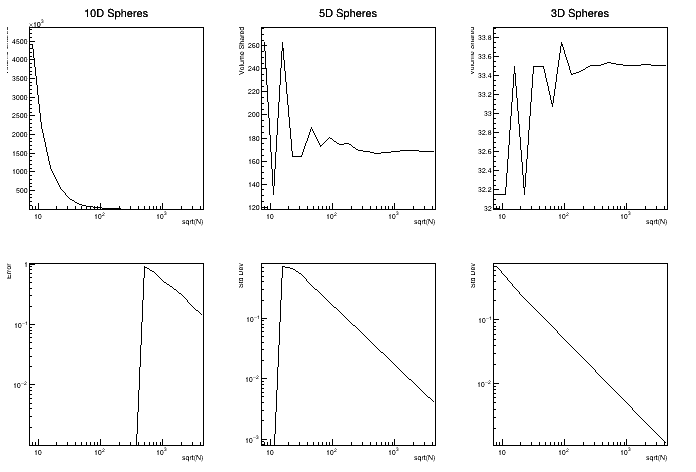
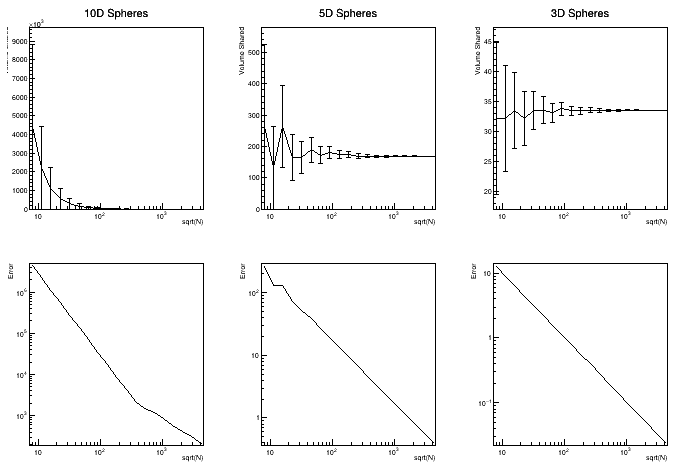
convergence plot now has correct error in volumes

diff --git a/sphere_5D.cpp b/sphere_5D.cpp
@@ -1,5 +1,7 @@
 #include "sphere_5D.h"
 
+using namespace ROOT::Math;
+
 void scale_vec(int dim, std::vector<double>& v, double scale) {
     // scale a positive vector to have components between -scale/2 and scale/2
     for (int i = 0; i<dim; ++i) {
@@ -27,7 +29,7 @@ bool check_inside(int dim, std::vector<double>& v, double r) {
 
 void add_vec(int dim, std::vector<double>& v1, std::vector<double>& v2) {
     // add components of vec2 to vec1 in place
-    for (int j=0; j<dim; ++j){
+    for (int j=0; j<dim; ++j) {
         v1[j] = v1[j] + v2[j];
     }
 }
@@ -58,19 +60,76 @@ int uni_loop(int dim, long int n_axis, int axis, double r, double incr, std::vec
 
 }
 
-std::vector<double> uniform_mc(int dim, int N, int r, long int n_axis) {
+std::vector<double> uniform_mc(int dim, long int N, int r, long int n_axis) {
     // do mc integration of a dim dimensional sphere with radius r with N total points, n_axis points along each axis
     std::vector<double> results(2);
     std::vector<double> uniform_pos(dim,-r); // position vector for uniform distribution method, start at (-r,-r,-r,-r,-r)
     double box_length = 2.*r; // length of box to surround the 5d sphere
-    std::cout<<"box length: "<<box_length<<std::endl;
     double axis_incr = box_length/(n_axis-1); // amount to increment along each axis to hit N points inside box
     std::cout<<"axis incr: "<<axis_incr<<std::endl;
     double box_volume = std::pow(box_length, 1.*dim);
+
     int N_inside= uni_loop(dim, n_axis, 0, r, axis_incr, uniform_pos);
-    double volume = ((1.*N_inside)/N) * box_volume;
+
+    double p = (1.*N_inside)/N;
+    double volume = p * box_volume;
+    std_dev = std::sqrt(1.*(N_inside - N * p * p)/(N-1));
     results[0] = volume;
-    results[1] = 0.0;
+    results[1] = std_dev;
+    return results;
+}
+
+std::vector<double> quasi_mc(int dim, long int N, int r) {
+    // do mc integration of a dim dimensional sphere with radius r with N total points, n_axis points along each axis
+    std::vector<double> results(2);
+    std::vector<double> quasi_pos(dim,0.0); // position vector for quasi random distribution method
+    double box_length = 2.*r; // length of box to surround the 5d sphere
+    double box_volume = std::pow(box_length, 1.*dim); // volume of 5d box
+    long int N_inside = 0; // count of points that land inside sphere
+
+    QuasiRandomSobol sobol_rng(dim); // sobol quasi random number generator in dim dimensions
+
+    for (int i=0; i<N; i++) {
+        sobol_rng.RndmArray(1, quasi_pos.data()); // generate a random vector
+        scale_vec(dim, quasi_pos, box_length); // scale the vector by the box length
+        if (check_inside(dim, quasi_pos, r)) {
+            // std::cout<<"Inside"<<std::endl;
+            N_inside++;
+        }
+    }
+
+    double p = (1.*N_inside)/N;
+    double volume = p * box_volume;
+    std_dev = std::sqrt(1.*(N_inside - N * p * p)/(N-1));
+    results[0] = volume;
+    results[1] = std_dev;
+    return results;
+}
+
+std::vector<double> pseudo_mc(int dim, long int N, int r) {
+    // do mc integration of a dim dimensional sphere with radius r with N total points, n_axis points along each axis
+    std::vector<double> results(2);
+    std::vector<double> pseudo_pos(dim,0.0); // position vector for pseudo random distribution method
+    double box_length = 2.*r; // length of box to surround the 5d sphere
+    double box_volume = std::pow(box_length, 1.*dim); // volume of 5d box
+    long int N_inside = 0; // count of points that land inside sphere
+    double std_dev = 0.0; // standard deviation
+
+    TRandom3 *tr3 = new TRandom3(0);; // trandom pseudo rng
+
+    for (int i=0; i<N; i++) {
+        tr3->RndmArray(dim,pseudo_pos.data()); // generate a random vector
+        scale_vec(dim, pseudo_pos, box_length); // scale the vector by the box length
+        if (check_inside(dim, pseudo_pos, r)) {
+            // std::cout<<"Inside"<<std::endl;
+            N_inside++;
+        }
+    }
+    double p = (1.*N_inside)/N;
+    double volume = p * box_volume;
+    std_dev = std::sqrt(1.*(N_inside - N * p * p)/(N-1));
+    results[0] = volume;
+    results[1] = std_dev;
     return results;
 }
 
@@ -93,16 +152,21 @@ int main(int argc, char* argv[]) {
     int n_trials = upper_pow-lower_pow+1; // total number of trials
     std::vector<double> n_points_sqrt(n_trials); // sqrt of all different numbers of points generated in each trial
     std::vector<double> n_points_sqrt_uni(n_trials); // sqrt of all different numbers of points generated in each trial for uniform points
+    std::vector<double> results(2); // vector to temporarily hold results
 
     // uniform distribution method
-    
     long int N_uniform; // total number of uniform points in each trial
     std::vector<double> volume_uni(n_trials); // volumes for uniform distribution
     std::vector<double> std_dev_uni(n_trials); // std dev for uniform distribution
-    std::vector<double> results_uni(2); // vector to temporarily hold results for uniform mc
 
 
     // sobel quasirandom method
+    std::vector<double> volume_quasi(n_trials); // volumes for quasi distribution
+    std::vector<double> std_dev_quasi(n_trials); // std dev for quasi distribution
+
+    // trandom pseudorandom method
+    std::vector<double> volume_pseudo(n_trials); // volumes for pseudo distribution
+    std::vector<double> std_dev_pseudo(n_trials); // std dev for pseudo distribution
 
     for (int i=lower_pow; i<=upper_pow; i++) {
         N = std::pow(10,i);
@@ -117,22 +181,64 @@ int main(int argc, char* argv[]) {
         
         // uniform distr
         std::cout<<"num per axis: "<<n_axis<<std::endl;
-        results_uni = uniform_mc(d, N_uniform, r, n_axis);
+        results = uniform_mc(d, N_uniform, r, n_axis);
+        volume_uni[i-lower_pow] = results[0];
+        std_dev_uni[i-lower_pow] = results[1];
+        std::cout<<"Uniform Volume: "<<results[0]<<std::endl;
 
-        std::cout<<"Uniform Volume: "<<results_uni[0]<<"\n"<<std::endl;
+        // quasi random distr
+        results = quasi_mc(d, N, r);
+        volume_quasi[i-lower_pow] = results[0];
+        std_dev_quasi[i-lower_pow] = results[1];
+        std::cout<<"Quasi Volume: "<<results[0]<<std::endl;
+
+        // pseudo random distr
+        results = pseudo_mc(d, N, r);
+        volume_pseudo[i-lower_pow] = results[0];
+        std_dev_pseudo[i-lower_pow] = results[1];
+        std::cout<<"Pseudo Volume: "<<results[0]<<"\n"<<std::endl;
+
     }
 
-    // // A multi panel plot
-    // auto canvas = new TCanvas("canvas","Canvas");
-    // canvas->Divide(3,2);  // divide in to 2x3 panels, plot volume on top of error
+    // A multi panel plot
+    auto canvas = new TCanvas("canvas","Canvas");
+    canvas->Divide(2,1);  // divide in to 1x2 panels, plot volume on top of error
     
-    // // 10D plots
-    // canvas->cd(1);
-    // auto graph_10D = new TGraph(19,n_points_sqrt.data(),volume_10D.data());
-    // graph_10D->SetTitle("10D Spheres;sqrt(N);Volume Shared");
-    // graph_10D->Draw();
-    // // canvas->cd(1)->SetLogy();
-    // canvas->cd(1)->SetLogx();
+    // volume plots
+    canvas->cd(1);
+    auto frame = gPad->DrawFrame(0.,0.,n_points_sqrt.back(),6.5);
+    frame->GetXaxis()->SetTitle("sqrt(N)");
+    frame->GetYaxis()->SetTitle("Volume");
+    auto graph_uni_vol = new TGraph(n_trials,n_points_sqrt_uni.data(),volume_uni.data());
+    graph_uni_vol->SetTitle("Volume;sqrt(N);Volume");
+    graph_uni_vol->SetMarkerStyle(7);
+    graph_uni_vol->SetMarkerColor(2);
+    
+
+    auto graph_quasi_vol = new TGraph(n_trials,n_points_sqrt.data(),volume_quasi.data());
+    // graph_quasi_vol->SetTitle("Volume;sqrt(N);Volume");
+    graph_quasi_vol->SetMarkerStyle(7);
+    graph_quasi_vol->SetMarkerColor(4);
+    
+
+    auto graph_pseudo_vol = new TGraph(n_trials,n_points_sqrt.data(),volume_pseudo.data());
+    // graph_quasi_vol->SetTitle("Volume;sqrt(N);Volume");
+    graph_pseudo_vol->SetMarkerStyle(7);
+    graph_pseudo_vol->SetMarkerColor(3);
+
+    graph_uni_vol->Draw("cp");
+    graph_quasi_vol->Draw("cp");
+    graph_pseudo_vol->Draw("cp");
+
+    auto legend = new TLegend(0.2,0.4,0.4,0.6);
+    legend->AddEntry(graph_uni_vol,"Uniform");
+    legend->AddEntry(graph_quasi_vol,"Quasi");
+    legend->AddEntry(graph_pseudo_vol,"Pseudo");
+    // legend->SetHeader("Legend");
+    legend->Draw();
+
+    // canvas->cd(1)->SetLogy();
+    canvas->cd(1)->SetLogx();
 
     // canvas->cd(4);
     // auto graph_10D_err = new TGraph(19,n_points_sqrt.data(),vol_err_10D.data());
@@ -170,6 +276,6 @@ int main(int argc, char* argv[]) {
     // canvas->cd(6)->SetLogy();
     // canvas->cd(6)->SetLogx();
 
-    // canvas->SaveAs("methods.png");
+    canvas->SaveAs("methods.png");
     return 0; // Exit successfully
 }

diff --git a/ndcrescent_plotting.cpp b/ndcrescent_plotting.cpp
@@ -40,6 +40,7 @@ int main(int argc, char* argv[]) {
         results_10D = monte_volume(10, N, r1, r2, a);
         volume_10D[i-6] = results_10D[1];
         vol_err_10D[i-6] = results_10D[2];
+        // std::cout<<"10D volume: "<<results_10D[1]<<"\n"<<std::endl;
 
         // 5D
         results_5D = monte_volume(5, N, r1, r2, a);
@@ -52,13 +53,15 @@ int main(int argc, char* argv[]) {
         vol_err_3D[i-6] = results_3D[2];
     }
 
+    std::vector<double> zeros(19,0.0);
+
     // A multi panel plot
     auto canvas = new TCanvas("canvas","Canvas");
     canvas->Divide(3,2);  // divide in to 2x3 panels, plot volume on top of error
     
     // 10D plots
     canvas->cd(1);
-    auto graph_10D = new TGraph(19,n_points_sqrt.data(),volume_10D.data());
+    auto graph_10D = new TGraphErrors(19,n_points_sqrt.data(),volume_10D.data(),zeros.data(),vol_err_10D.data());
     graph_10D->SetTitle("10D Spheres;sqrt(N);Volume Shared");
     graph_10D->Draw();
     // canvas->cd(1)->SetLogy();
@@ -73,7 +76,7 @@ int main(int argc, char* argv[]) {
 
     // 5D plots
     canvas->cd(2);
-    auto graph_5D = new TGraph(19,n_points_sqrt.data(),volume_5D.data());
+    auto graph_5D = new TGraphErrors(19,n_points_sqrt.data(),volume_5D.data(),zeros.data(),vol_err_5D.data());
     graph_5D->SetTitle("5D Spheres;sqrt(N);Volume Shared");
     graph_5D->Draw();
     // canvas->cd(2)->SetLogy();
@@ -81,21 +84,21 @@ int main(int argc, char* argv[]) {
 
     canvas->cd(5);
     auto graph_5D_err = new TGraph(19,n_points_sqrt.data(),vol_err_5D.data());
-    graph_5D_err->SetTitle(";sqrt(N);Std Dev");
+    graph_5D_err->SetTitle(";sqrt(N);Error");
     graph_5D_err->Draw();
     canvas->cd(5)->SetLogy();
     canvas->cd(5)->SetLogx();
 
     // 3D plots
     canvas->cd(3);
-    auto graph_3D = new TGraph(19,n_points_sqrt.data(),volume_3D.data());
+    auto graph_3D = new TGraphErrors(19,n_points_sqrt.data(),volume_3D.data(),zeros.data(),vol_err_3D.data());
     graph_3D->SetTitle("3D Spheres;sqrt(N);Volume Shared");
     graph_3D->Draw();
     canvas->cd(3)->SetLogx();
 
     canvas->cd(6);
     auto graph_3D_err = new TGraph(19,n_points_sqrt.data(),vol_err_3D.data());
-    graph_3D_err->SetTitle(";sqrt(N);Std Dev");
+    graph_3D_err->SetTitle(";sqrt(N);Error");
     graph_3D_err->Draw();
     canvas->cd(6)->SetLogy();
     canvas->cd(6)->SetLogx();

diff --git a/ndcrescent.cpp b/ndcrescent.cpp
@@ -58,8 +58,6 @@ std::vector<double> monte_volume(int d, int N, double r1, double r2, double a) {
     int num_inside = 0; // count how many random points land inside both spheres
     double stdev; // standard deviation of the points inside spheres
 
-    double sum_magsq = 0.0; // sum of the magnitude squared of all randomly generated vectors inside both spheres
-    std::vector<double> sum_pos(d, 0.0); // vector which is the sum of all random vector components inside both spheres
     // print_vec(d, sum_pos);
 
     double rand_mag;
@@ -78,31 +76,21 @@ std::vector<double> monte_volume(int d, int N, double r1, double r2, double a) {
             // std::cout<<"Inside"<<std::endl;
             num_inside++;
 
-                    // add magnitude squared of this vector to d_rand_mag_sum
-            sum_magsq += std::pow(rand_mag, 2.0);
-
-            // add d_rand components to d_rand_sum array
-            add_vec(d, sum_pos, rand_pos);
             // print_vec(d, d_rand_sum);
         }
         // print_vec(d, d_rand);
         // std::cout<<d_rand_mag<<std::endl;
     }
 
-    if (num_inside <= 1) {
-        stdev = 0.0;
-    } else {
-        // calculate average vector
-        for (int j=0; j<d; ++j){
-            sum_pos[j] = sum_pos[j]/(1.* num_inside);
-        }
-        double exp_pos_sqr = std::pow(vector_mag(d, sum_pos), 2); // magnituded squared of average vector inside both spheres
-        stdev = std::pow((sum_magsq/(1.*num_inside) - exp_pos_sqr), 0.5) / std::pow(num_inside-1, 0.5); // standard deviation in points generated inside both spheres
-    }
+    double p = num_inside/(N*1.);
+
+ 
+    stdev = std::sqrt(1.*(num_inside - N * p * p)/(N-1)); // standard deviation in points generated inside both spheres
+    stdev = box_volume * (stdev / std::sqrt(N)); // error
     
 
     // std::cout<<"n_inside: "<<num_inside<<std::endl;
-    double p = num_inside/(N*1.);
+    
     // std::cout<<"p: "<<p<<std::endl;
     double volume = p*box_volume;
     // std::cout<<"Volume: "<<volume<<std::endl;

diff --git a/sphere_5D.h b/sphere_5D.h
@@ -1,6 +1,12 @@
 #include <iostream>
 #include <cstdlib> // For std::atoi and std::atof
 #include "Math/QuasiRandom.h"
+#include "TRandom3.h"
+#include "TGraph.h"
+#include "TCanvas.h"
+#include "TAxis.h"
+#include "TLegend.h"
+#include "TH1F.h"
 #include <cassert>
 #include <cmath>
 #include <vector>

diff --git a/ndcrescent_plotting.h b/ndcrescent_plotting.h
@@ -1,5 +1,6 @@
 #include "ndcrescent.h"
 #include "TGraph.h"
+#include "TGraphErrors.h"
 #include "TApplication.h"
 #include "TROOT.h"
 #include "TH2F.h"
